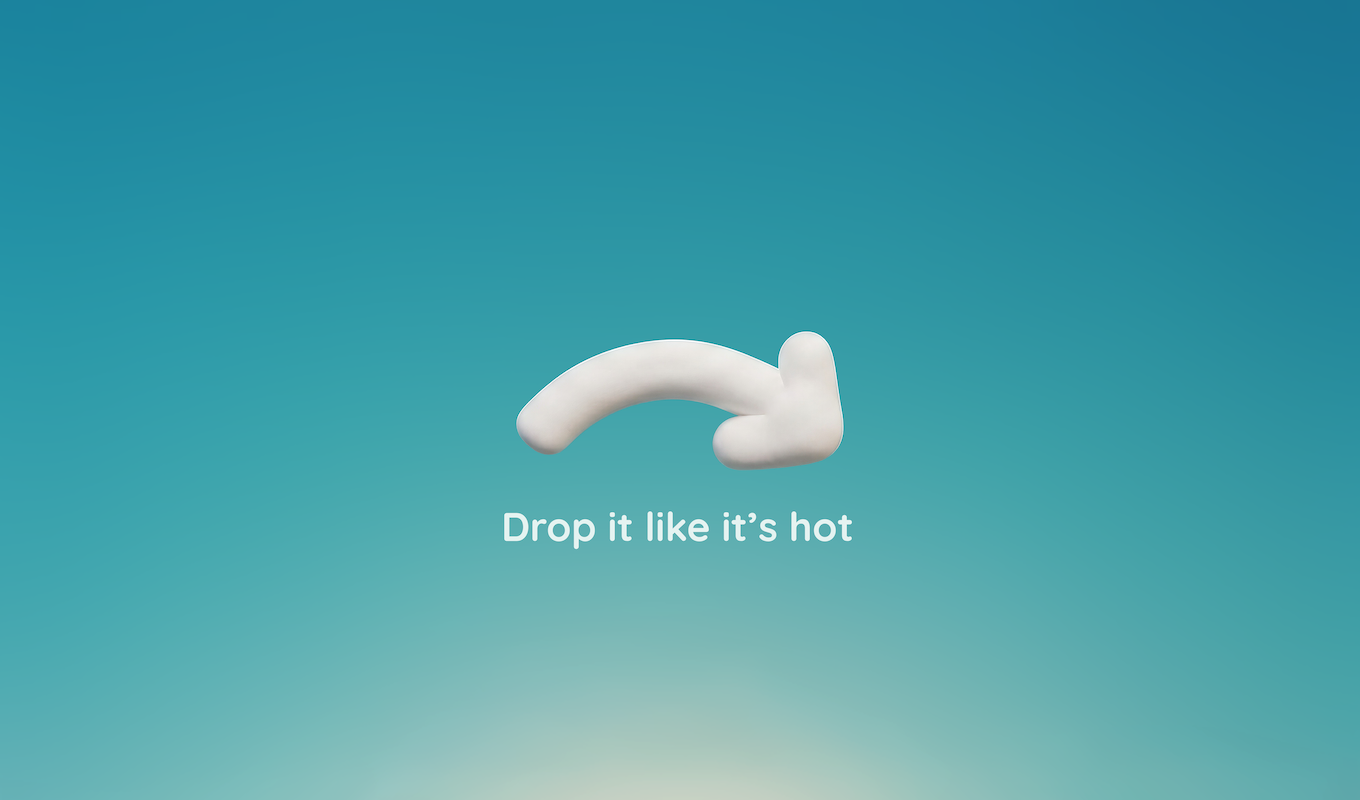
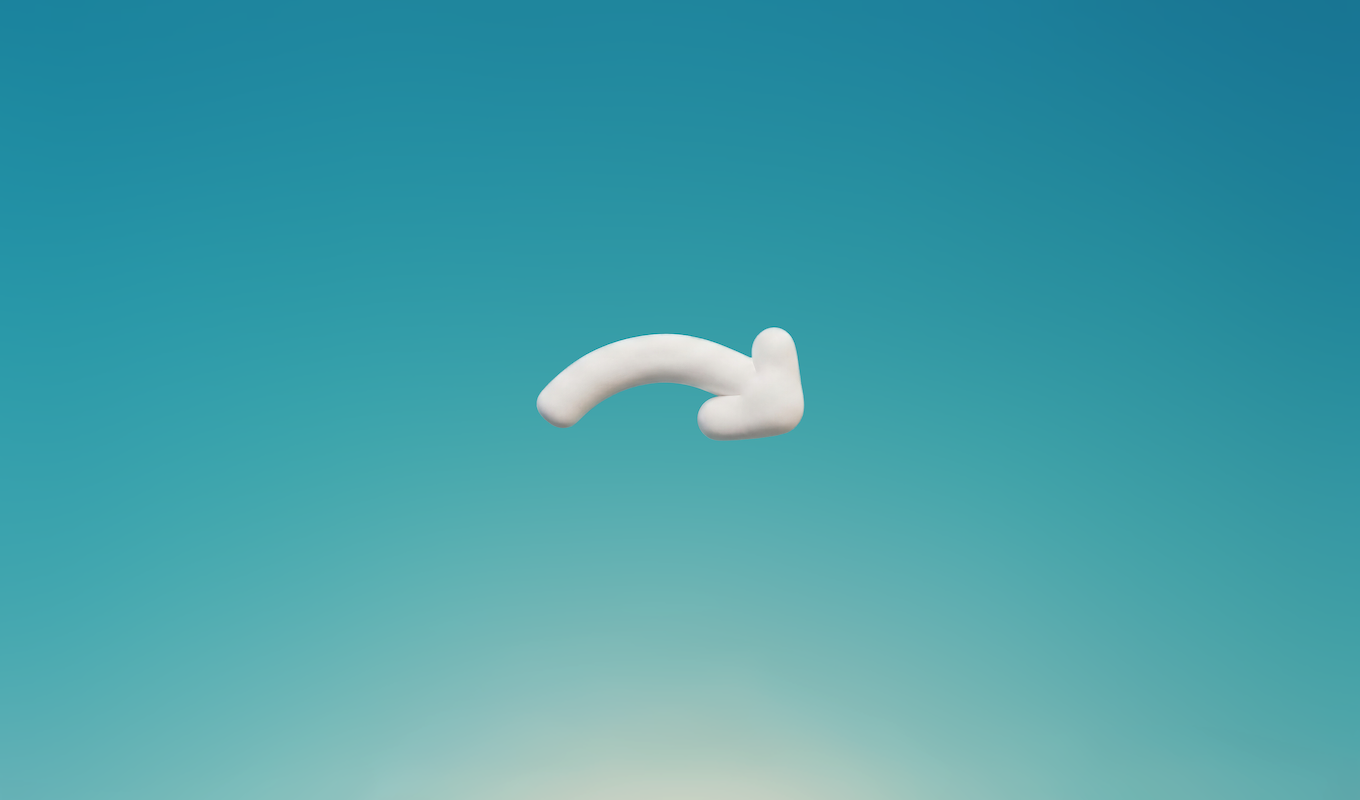
Release v0.1.1: onboarding bg renders + refreshed DMG art
Onboarding window: replace the layer-hosting AspectFillImageView with
a draw(_:)-based implementation. The previous version hit a known
AppKit gotcha — when wantsLayer=true was set and a custom CALayer
assigned in the same init, the view became layer-hosting and AppKit
stopped auto-syncing layer bounds to view bounds, so the image never
took the view's size and the gradient never appeared. The draw path
computes the aspect-fill rect from bounds at paint time and is
immune to that ambiguity.

DMG: updated dmg-background.png to the final designed version (drag
indicator baked in, sized to coexist with the existing icon coords
at 170,200 and 510,200).

Bump CFBundleVersion + CFBundleShortVersionString to 0.1.1. Sparkle
compares CFBundleVersion to the appcast item to decide whether to
offer this build as an update — anyone on 0.1.0-beta will get the
prompt on next check.

Changed region(s): [[0.3706, 0.4062, 0.6176, 0.5938], [0.3706, 0.625, 0.6176, 0.6875], [0.4015, 0.4375, 0.4324, 0.4688]]

diff --git a/Sources/AccessibilityOnboardingWindowController.swift b/Sources/AccessibilityOnboardingWindowController.swift
@@ -127,20 +127,25 @@ private final class AspectFillImageView: NSView {
         didSet { needsDisplay = true }
     }
 
-    override var wantsUpdateLayer: Bool { true }
+    override var isFlipped: Bool { false }
 
-    override init(frame frameRect: NSRect) {
-        super.init(frame: frameRect)
-        wantsLayer = true
-        layer = CALayer()
-        layer?.contentsGravity = .resizeAspectFill
-        layer?.masksToBounds = true
-    }
+    override func draw(_ dirtyRect: NSRect) {
+        guard let image, image.size.width > 0, image.size.height > 0 else { return }
+        let imageAspect = image.size.width / image.size.height
+        let viewAspect = bounds.width / max(bounds.height, 1)
 
-    required init?(coder: NSCoder) { fatalError() }
+        var drawRect = bounds
+        if imageAspect > viewAspect {
+            // Image is wider than view — match view height, overflow horizontally.
+            drawRect.size.width = bounds.height * imageAspect
+            drawRect.origin.x = (bounds.width - drawRect.width) / 2
+        } else {
+            // Image is taller than view — match view width, overflow vertically.
+            drawRect.size.height = bounds.width / imageAspect
+            drawRect.origin.y = (bounds.height - drawRect.height) / 2
+        }
 
-    override func updateLayer() {
-        layer?.contents = image
+        image.draw(in: drawRect, from: .zero, operation: .sourceOver, fraction: 1.0)
     }
 }
 